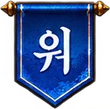
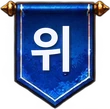
장수 카드 등급 숫자 제거, 위 진영 깃발·필터 글자 워→위 수정
Claude-Session: https://claude.ai/code/session_01Lwj6iVicsWNFBn8jGJqjRB

diff --git a/src/ui/strategy-ui.ts b/src/ui/strategy-ui.ts
@@ -1953,7 +1953,7 @@ export class StrategyUI {
     const roleKey = ({ 기병: 'cavalry', 보병: 'infantry', 궁병: 'archer', 책사: 'strategist' } as Record<string, string>)[general.role] ?? 'infantry'
     const realm = generalRealm(general.id)
     const stars = options.locked ? '' : `<span class="gtile__stars">${'★'.repeat(general.stars)}<i>${'★'.repeat(Math.max(0, 5 - general.stars))}</i></span>`
-    return `<button class="gtile gtile--g${general.grade}${options.locked ? ' is-locked' : ''}" data-action="general-detail" data-kind="${kind}" data-id="${general.id}" data-realm="${realm}" data-role="${roleKey}" style="--grade:${meta?.color ?? '#a9b1b8'}"><span class="gtile__art" style="background-image:url('${this.portraitAsset(general)}')"></span><span class="gtile__frame" aria-hidden="true"></span><span class="gtile__grade" data-no-tr>${general.grade}</span><span class="gtile__role" data-no-tr title="${general.role}"></span><span class="gtile__realm" title="${REALM_LABEL[realm]}"></span>${options.badge ? `<span class="gtile__badge">${escapeHtml(options.badge)}</span>` : ''}<span class="gtile__foot"><span class="gtile__line"><b>${options.locked ? (isEnglish() ? 'Not owned' : '미영입') : `Lv.${general.level}`}</b>${stars}</span><strong>${escapeHtml(general.name)}</strong></span></button>`
+    return `<button class="gtile gtile--g${general.grade}${options.locked ? ' is-locked' : ''}" data-action="general-detail" data-kind="${kind}" data-id="${general.id}" data-realm="${realm}" data-role="${roleKey}" style="--grade:${meta?.color ?? '#a9b1b8'}"><span class="gtile__art" style="background-image:url('${this.portraitAsset(general)}')"></span><span class="gtile__frame" aria-hidden="true"></span><span class="gtile__grade" aria-label="${general.grade}" data-no-tr></span><span class="gtile__role" data-no-tr title="${general.role}"></span><span class="gtile__realm" title="${REALM_LABEL[realm]}"></span>${options.badge ? `<span class="gtile__badge">${escapeHtml(options.badge)}</span>` : ''}<span class="gtile__foot"><span class="gtile__line"><b>${options.locked ? (isEnglish() ? 'Not owned' : '미영입') : `Lv.${general.level}`}</b>${stars}</span><strong>${escapeHtml(general.name)}</strong></span></button>`
   }
 
   /** 상세 창(무장 카드 · 도감 카드를 크게) */
